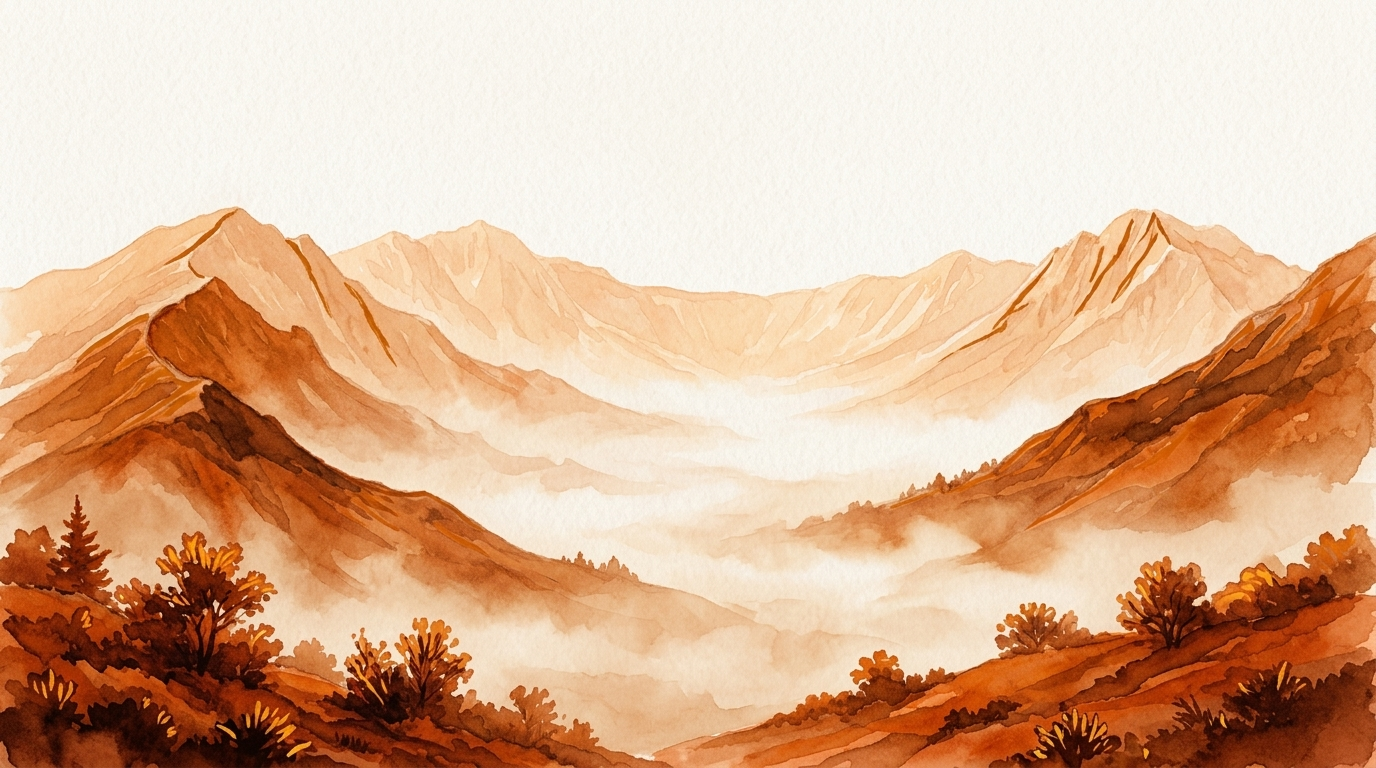
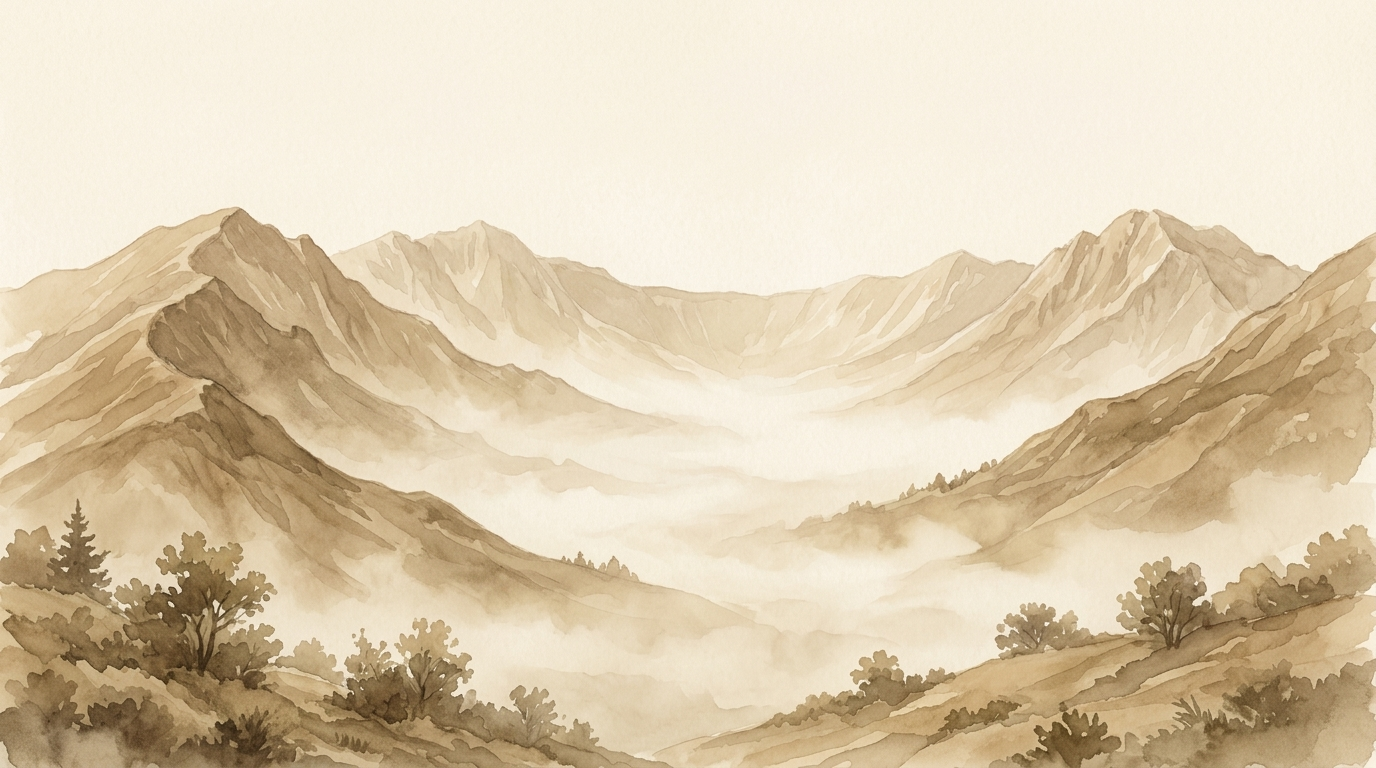
Spreminjal ozadje registera in locil badge

diff --git a/frontend/src/features/modules/components/GoalBadge.tsx b/frontend/src/features/modules/components/GoalBadge.tsx
@@ -1,0 +1,35 @@
+import React from 'react';
+import { Award } from 'lucide-react';
+
+interface GoalBadgeProps {
+  finalGoalY: number;
+}
+
+export const GoalBadge: React.FC<GoalBadgeProps> = ({ finalGoalY }) => {
+  return (
+    <div
+      className="absolute z-10 flex flex-col items-center justify-center transform -translate-x-1/2 -translate-y-1/2 group"
+      style={{ left: '50%', top: `${finalGoalY}px` }}
+    >
+      {/* Main Node */}
+      <div className="w-[72px] h-[72px] bg-white/90 backdrop-blur-md rounded-full flex items-center justify-center p-1 z-20 shadow-[0_8px_30px_rgb(0,0,0,0.06)] border border-[#eadfce] transition-transform duration-300 group-hover:scale-105">
+        <div className="w-full h-full bg-gradient-to-br from-[#EACE9B] to-[#C98A43] rounded-full flex items-center justify-center shadow-inner relative overflow-hidden">
+          {/* Shine effect that moves on hover */}
+          <div className="absolute top-0 left-0 w-full h-full bg-gradient-to-tr from-transparent via-white/40 to-transparent -translate-x-[150%] group-hover:translate-x-[150%] transition-transform duration-1000 ease-in-out" />
+          <Award className="w-8 h-8 text-white relative z-10 drop-shadow-md" strokeWidth={2.5} />
+        </div>
+      </div>
+
+      {/* Badge Label */}
+      <div className="mt-3 flex flex-col items-center z-20">
+        <div className="flex items-center gap-1 bg-white/80 backdrop-blur-md px-4 py-2.5 md:px-7 md:py-3 rounded-2xl border border-[#DECFB3] shadow-sm transition-all duration-300 group-hover:shadow-md group-hover:-translate-y-1 group-hover:border-[#C98A43]/40">
+          <div className="w-6 md:w-8 h-[1.5px] bg-gradient-to-r from-transparent to-[#C98A43]/60" />
+          <h3 className="font-serif text-sm md:text-[1.15rem] font-bold text-[#5c3724] tracking-wide text-center whitespace-nowrap">
+            Konec modula
+          </h3>
+          <div className="w-6 md:w-8 h-[1.5px] bg-gradient-to-l from-transparent to-[#C98A43]/60" />
+        </div>
+      </div>
+    </div>
+  );
+};

diff --git a/frontend/src/features/modules/components/LearningUnitVisualizer.tsx b/frontend/src/features/modules/components/LearningUnitVisualizer.tsx
@@ -1,8 +1,9 @@
 import React, { useState, useEffect, useRef, useCallback } from 'react';
 import { useNavigate } from 'react-router-dom';
 import type { LearningUnitReferenceResponse, LearningUnitResponse } from '../../../types/learning-unit';
-import { BookOpen, Check, ArrowRight, Award, X } from 'lucide-react';
+import { BookOpen, Check, ArrowRight, X } from 'lucide-react';
 import EmptyState from '../../../components/common/EmptyState';
+import { GoalBadge } from './GoalBadge';
 import moduleBgImage from '../../../assets/module-details-background.webp';
 import moduleBgImageVertical from '../../../assets/module-details-background-vertical.webp';
 
@@ -483,30 +484,7 @@ export const LearningUnitVisualizer: React.FC<LearningUnitVisualizerProps> = ({
           )}
 
           {/* Goal Node */}
-          <div
-            className="absolute z-10 flex flex-col items-center justify-center transform -translate-x-1/2 -translate-y-1/2 group"
-            style={{ left: '50%', top: `${finalGoalY}px` }}
-          >
-            {/* Main Node */}
-            <div className="w-[72px] h-[72px] bg-white/90 backdrop-blur-md rounded-full flex items-center justify-center p-1 z-20 shadow-[0_8px_30px_rgb(0,0,0,0.06)] border border-[#eadfce] transition-transform duration-300 group-hover:scale-105">
-              <div className="w-full h-full bg-gradient-to-br from-[#EACE9B] to-[#C98A43] rounded-full flex items-center justify-center shadow-inner relative overflow-hidden">
-                {/* Shine effect that moves on hover */}
-                <div className="absolute top-0 left-0 w-full h-full bg-gradient-to-tr from-transparent via-white/40 to-transparent -translate-x-[150%] group-hover:translate-x-[150%] transition-transform duration-1000 ease-in-out" />
-                <Award className="w-8 h-8 text-white relative z-10 drop-shadow-md" strokeWidth={2.5} />
-              </div>
-            </div>
-
-            {/* Badge Label */}
-            <div className="mt-3 flex flex-col items-center z-20">
-              <div className="flex items-center gap-1 bg-white/80 backdrop-blur-md px-4 py-2.5 md:px-7 md:py-3 rounded-2xl border border-[#DECFB3] shadow-sm transition-all duration-300 group-hover:shadow-md group-hover:-translate-y-1 group-hover:border-[#C98A43]/40">
-                <div className="w-6 md:w-8 h-[1.5px] bg-gradient-to-r from-transparent to-[#C98A43]/60" />
-                <h3 className="font-serif text-sm md:text-[1.15rem] font-bold text-[#5c3724] tracking-wide text-center whitespace-nowrap">
-                  Konec modula
-                </h3>
-                <div className="w-6 md:w-8 h-[1.5px] bg-gradient-to-l from-transparent to-[#C98A43]/60" />
-              </div>
-            </div>
-          </div>
+          <GoalBadge finalGoalY={finalGoalY} />
 
         </div>
       )}